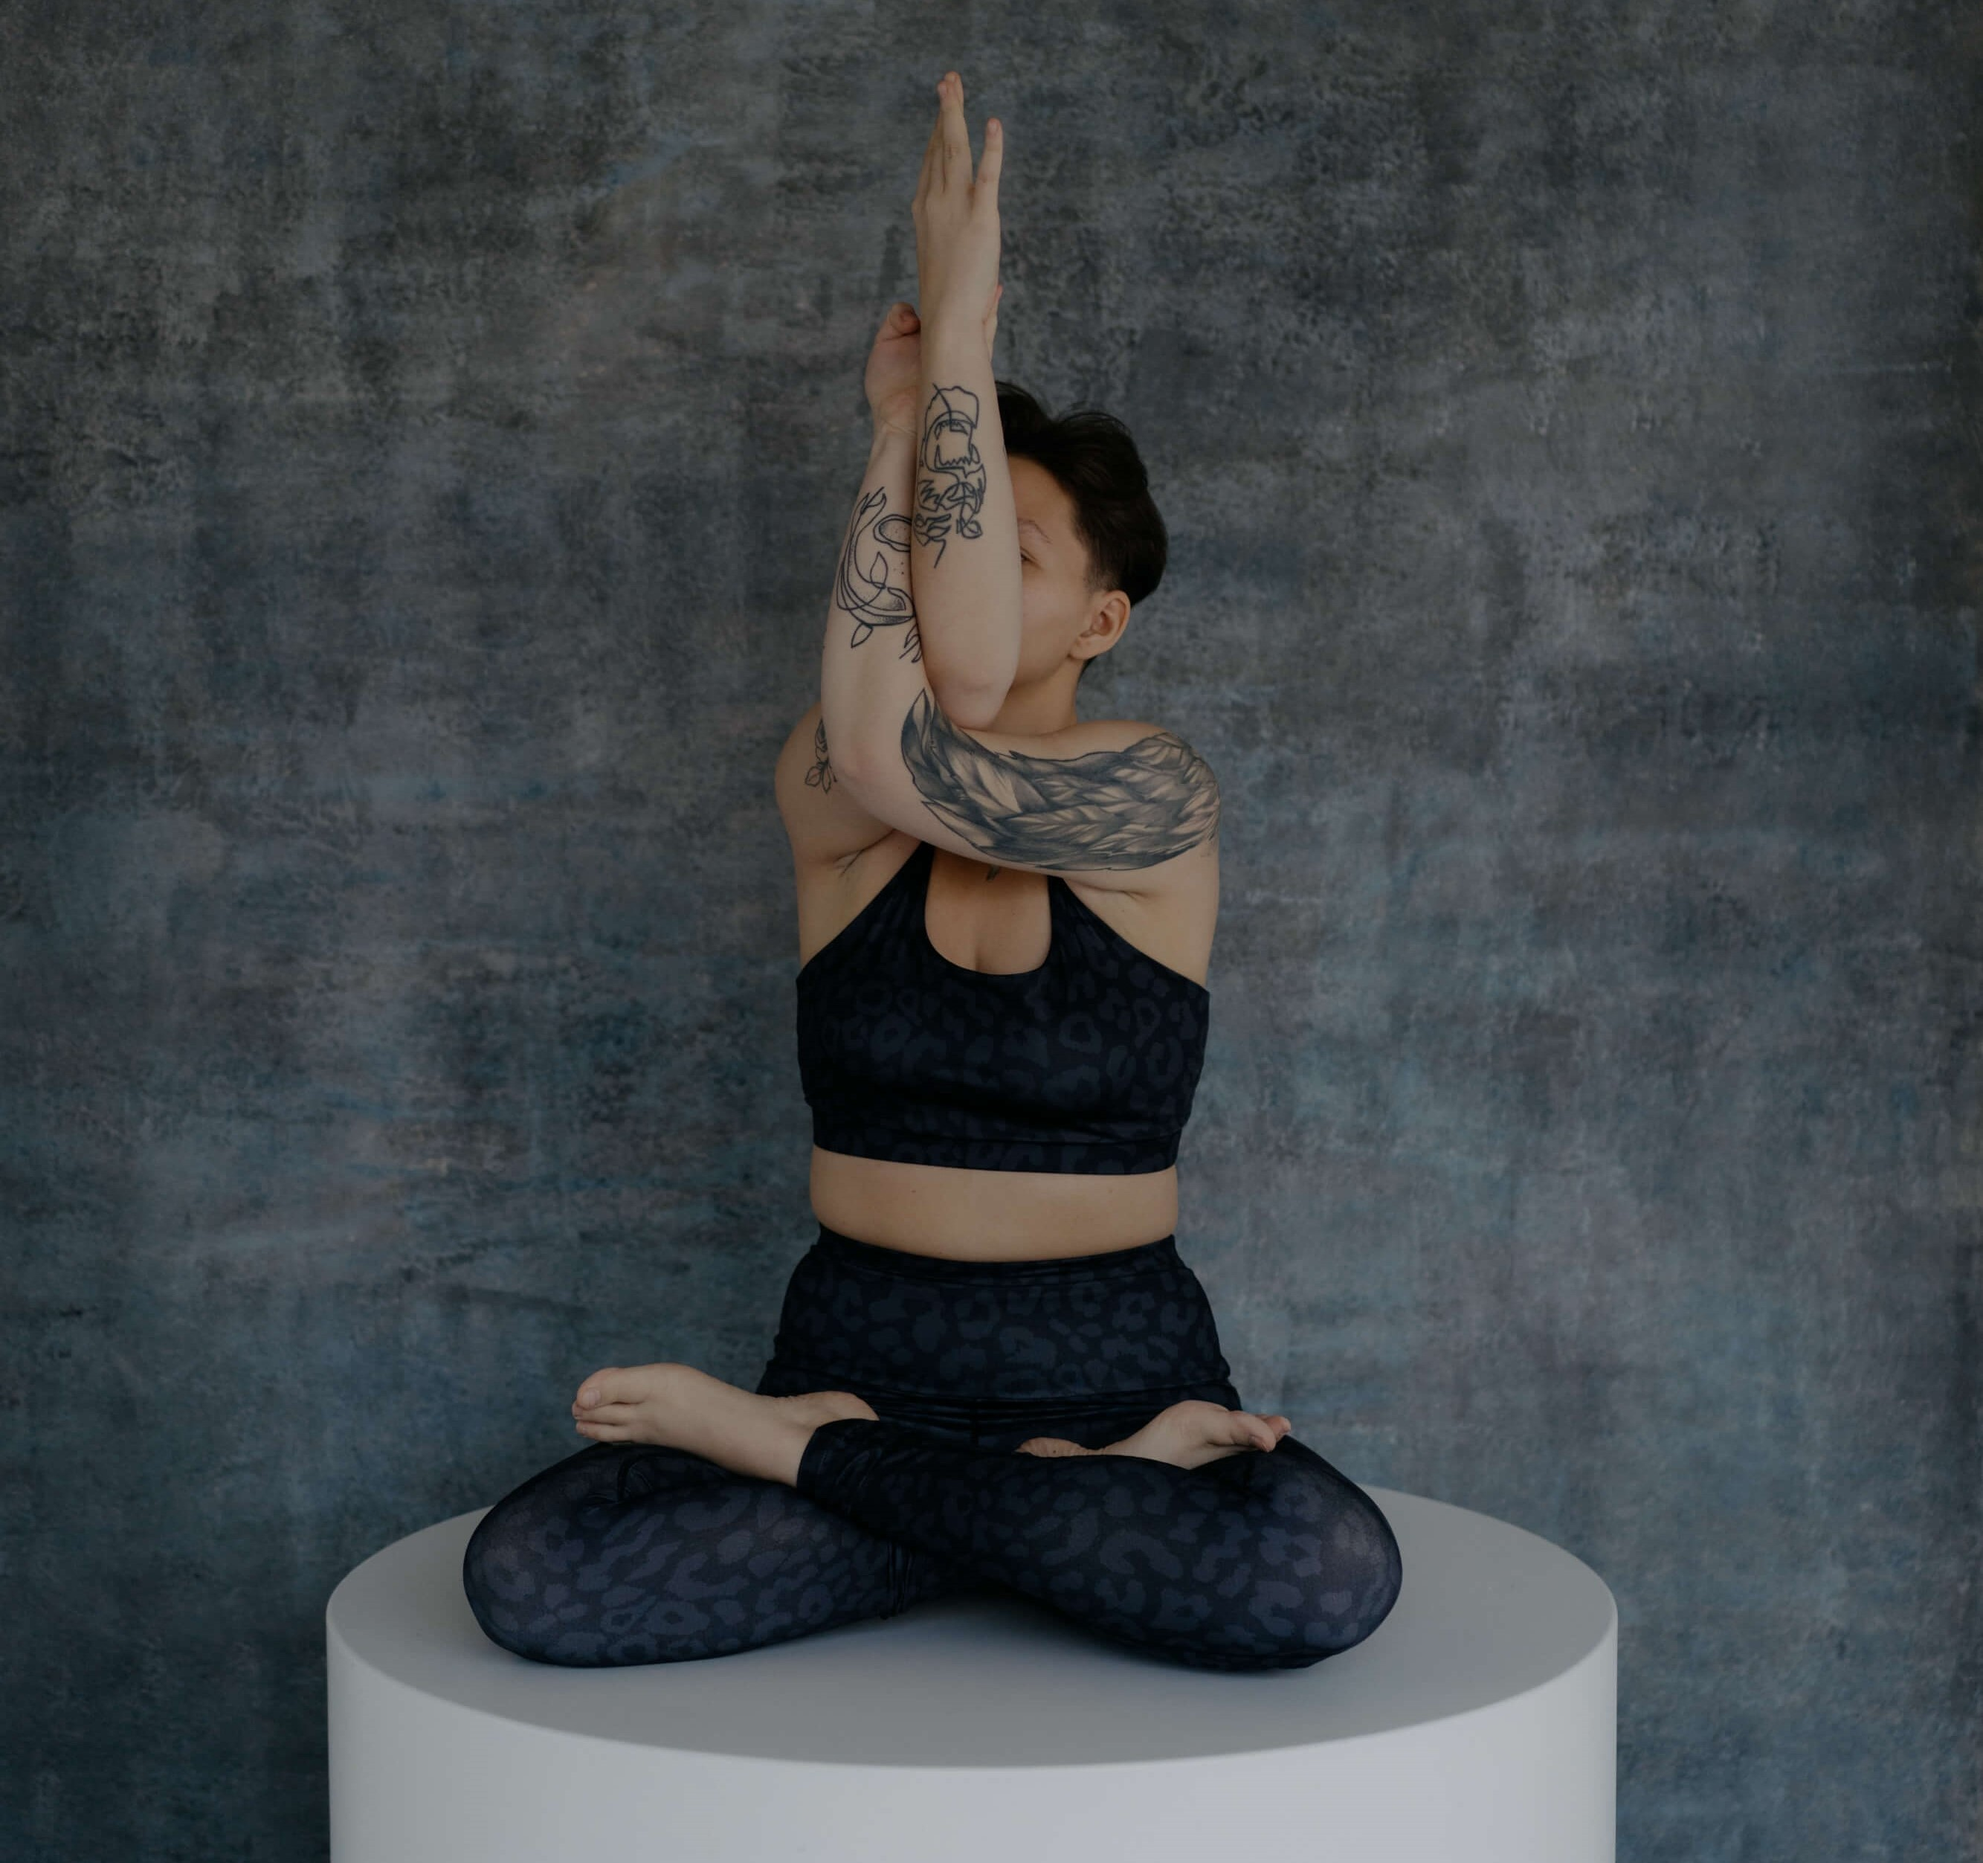
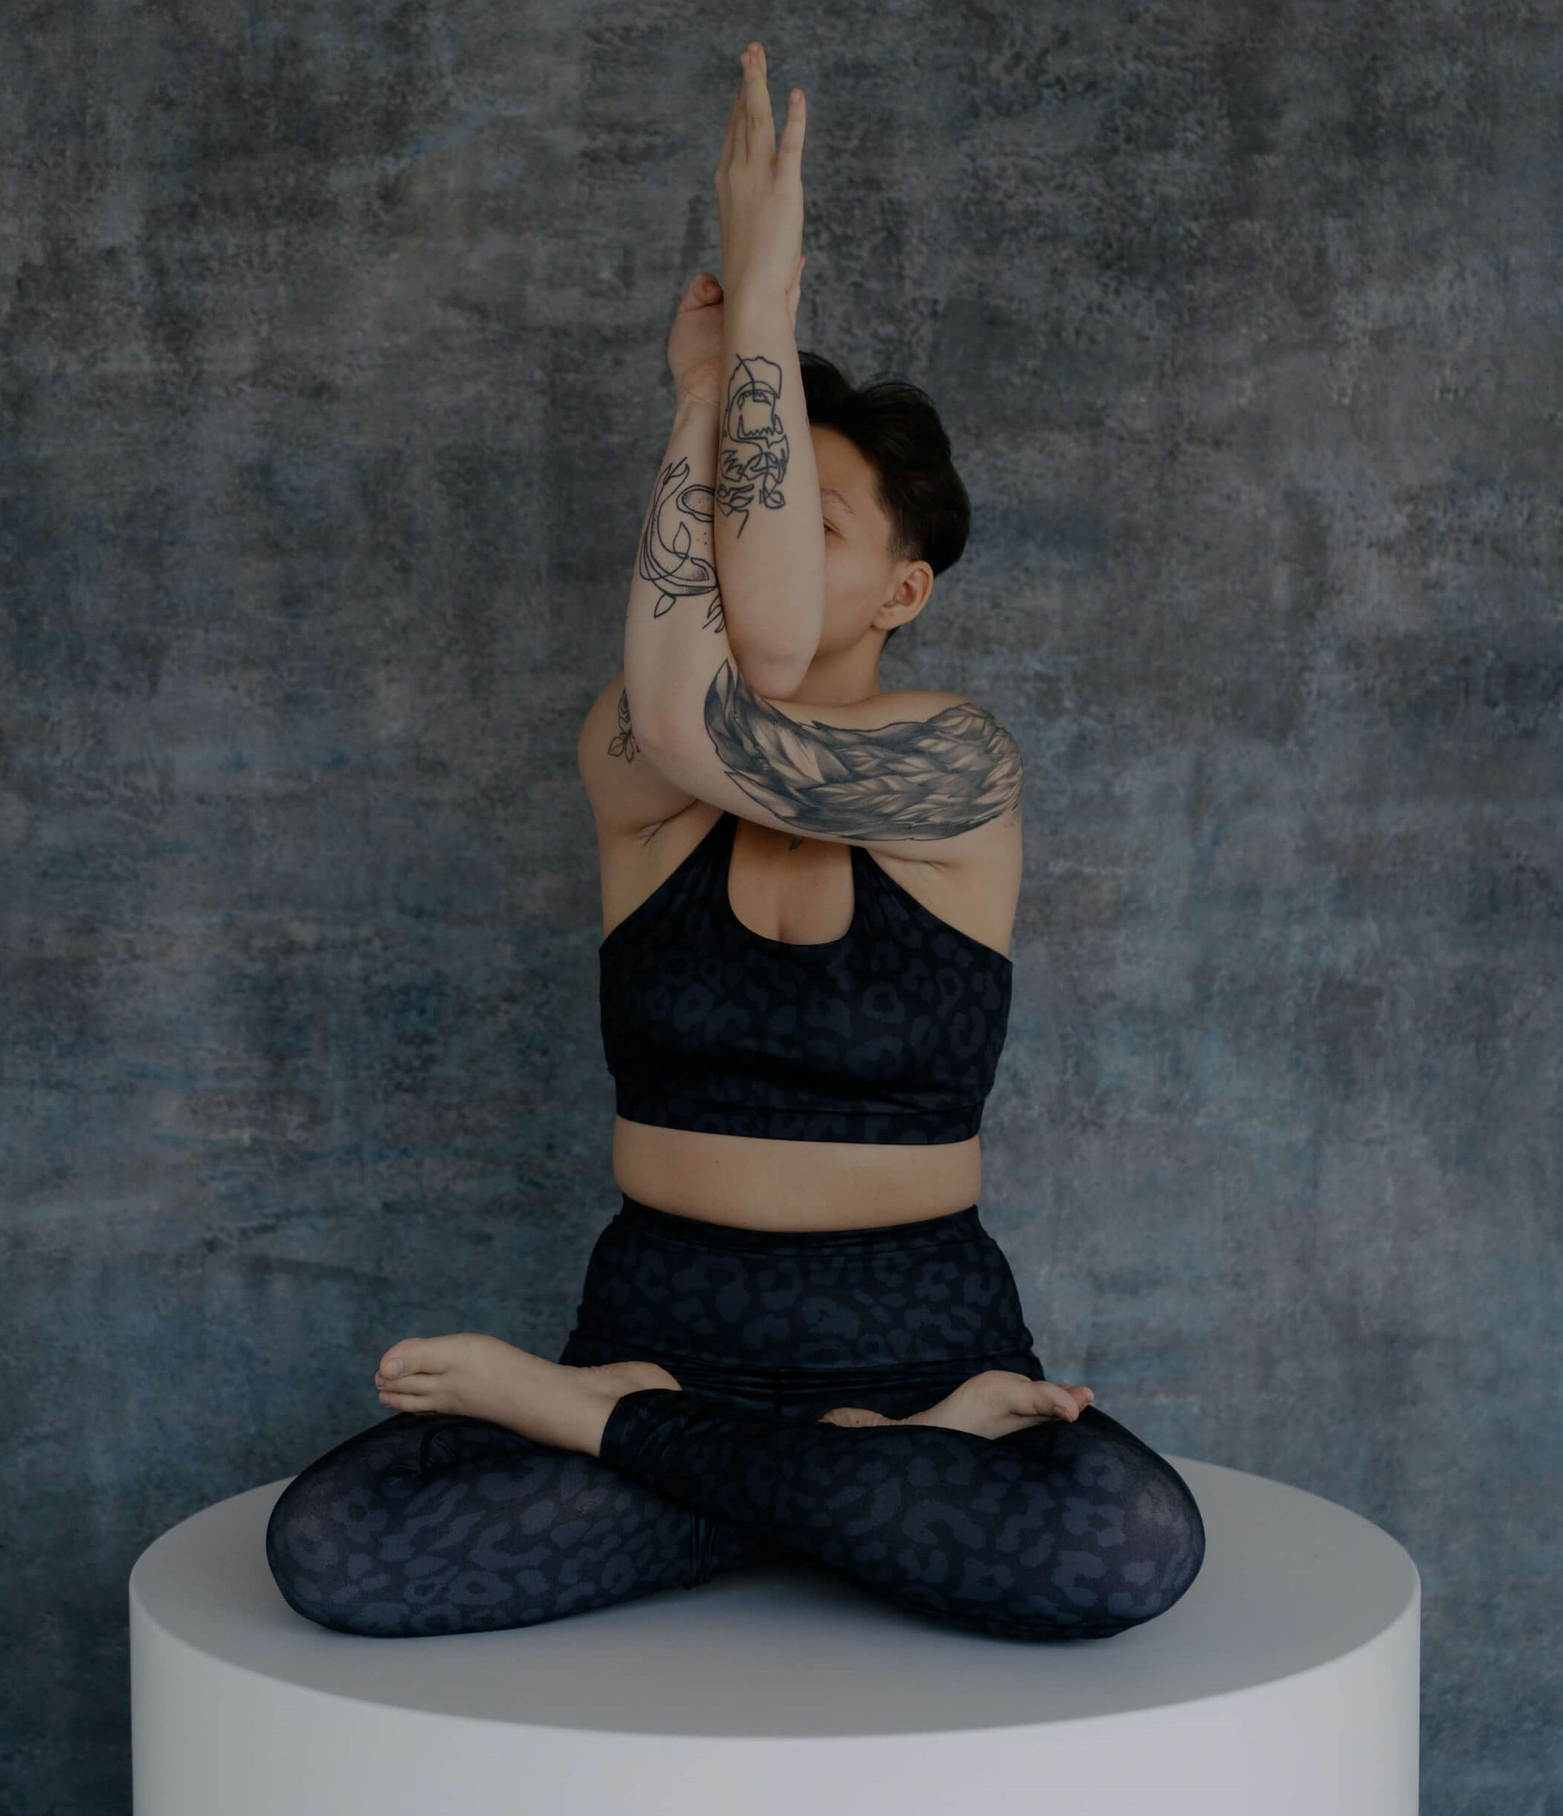
changed the pictures, aligned them

diff --git a/src/style.scss b/src/style.scss
@@ -417,7 +417,7 @@ h4 {
         display: grid;
         gap: 5%;
         grid-template-columns: repeat(auto-fit, minmax(450px, 1fr));
-        grid-template-rows: repeat(1, 48vh);
+        grid-template-rows: repeat(auto, 60vh);
         background-color: #F4F3F0;
     }    
 
@@ -430,8 +430,7 @@ h4 {
     .articles__wrapper__inner {
             position: relative;
             text-align: center;
-            margin-top: 5%;
-            margin-bottom: 5%;
+            margin: 5% 5%;
         a {
             position: absolute;
             top: 50%;
@@ -439,7 +438,7 @@ h4 {
             transform: translate(-50%, -50%);
             text-decoration: none;
             color: white;
-            font-size: 1.7rem;
+            font-size: 2rem;
             background-color: rgba(63, 55, 54, 0.8);
         }
         a:hover {

diff --git a/src/components/articlesPurposeBlock/articlesPurposeBlock.html b/src/components/articlesPurposeBlock/articlesPurposeBlock.html
@@ -4,7 +4,7 @@
     <a href="#">Тренировки и ментальное здоровье</a>
   </div>
   <div class="articles__wrapper__inner" id="figureArticles">
-    <img src="../../photo/IMG_9633.JPG" />
+    <img src="../../photo/IMG_9656copy.jpg" />
     <a href="#">Фигура и спорт</a>
   </div>
 </div>
